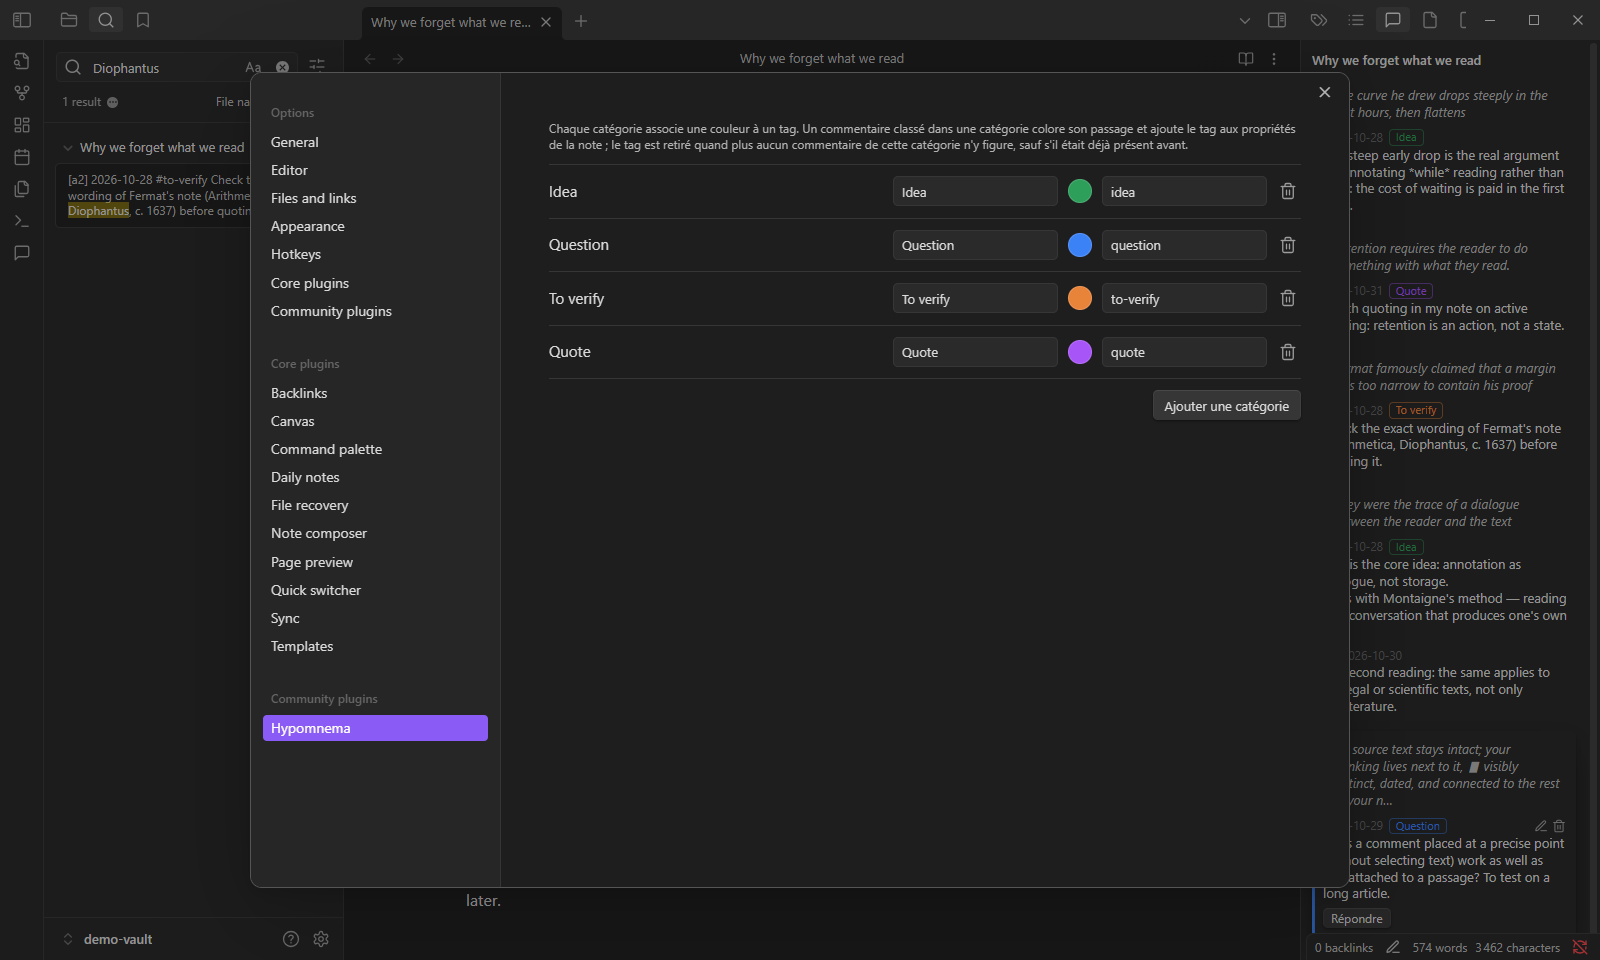
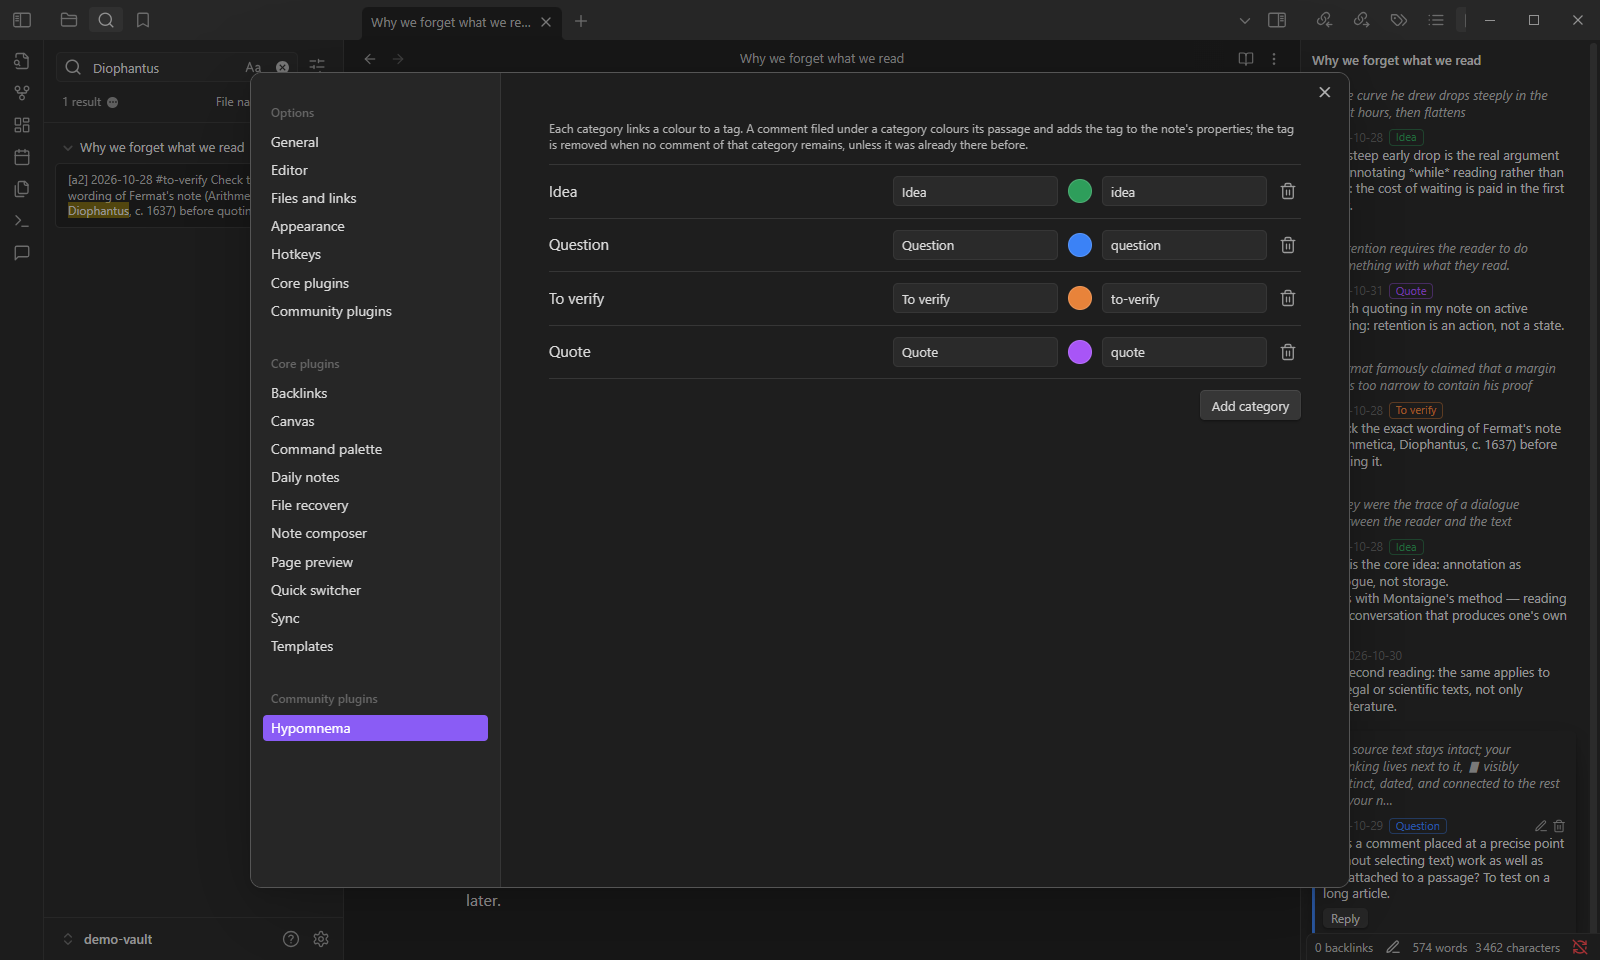
Version 0.4.0 : interface bilingue, conformité aux règles Obsidian, onglet unique
- Doublons de l'onglet « Commentaires » fermés après un rechargement du plugin
- Captures anglaises refaites avec l'interface en anglais

diff --git a/src/main.ts b/src/main.ts
@@ -63,6 +63,7 @@ export default class Hypomnema extends Plugin {
     // Ouvrir une autre note dans le même onglet ne change pas la feuille active. Si le panneau a le focus
     // (rédaction en cours), seul « layout-change » est émis : chaque panneau revérifie alors la note qu'il suit.
     const follow = () => {
+      this.dedupePanels();
       const view = this.app.workspace.getActiveViewOfType(MarkdownView);
       this.panels().forEach((p) => p.follow(view));
     };
@@ -102,10 +103,21 @@ export default class Hypomnema extends Plugin {
     return this.app.workspace.getLeavesOfType(PANEL_VIEW).map((l) => l.view).filter((v): v is CommentsPanel => v instanceof CommentsPanel);
   }
 
+  /**
+   * Chaque rechargement du plugin (mise à jour, désactivation puis réactivation) peut laisser un onglet de plus,
+   * qui n'apparaît parfois qu'après le chargement : on n'en garde qu'un, de préférence celui déjà affiché.
+   */
+  private dedupePanels(): WorkspaceLeaf | undefined {
+    const leaves = this.app.workspace.getLeavesOfType(PANEL_VIEW);
+    const keep = leaves.find((l) => l.view instanceof CommentsPanel) ?? leaves[0];
+    for (const leaf of leaves) if (leaf !== keep) leaf.detach();
+    return keep;
+  }
+
   /** Crée l'onglet du panneau dans la barre de droite, à côté des rétroliens, liens sortants et plan. */
   private async ensurePanel(): Promise<WorkspaceLeaf | null> {
     const ws = this.app.workspace;
-    const existing = ws.getLeavesOfType(PANEL_VIEW)[0];
+    const existing = this.dedupePanels();
     if (existing) return existing;
     const sibling = ["backlink", "outgoing-link", "outline"]
       .map((type) => ws.getLeavesOfType(type)[0])

diff --git a/CHANGELOG.md b/CHANGELOG.md
@@ -6,6 +6,8 @@ Les commentaires sont stockés en texte brut dans les notes des utilisateurs. To
 
 ## [Non publié]
 
+## [0.4.0] — 2026-10-31
+
 ### Ajouté
 
 - Interface en anglais. Le plugin suit la langue d'Obsidian : français quand Obsidian est en français, anglais sinon. Cela couvre les commandes, le menu contextuel, le panneau, la rédaction, les messages et les réglages. La catégorie d'exemple créée à la première installation suit la même règle (« Idée » / « Idea »).
@@ -15,6 +17,11 @@ Les commentaires sont stockés en texte brut dans les notes des utilisateurs. To
 
 - Les couleurs des catégories passent par des classes CSS, générées dans une feuille de style propre au plugin, et non plus par des styles en ligne, conformément aux règles des plugins Obsidian.
 - La mise en évidence d'un passage et le rafraîchissement des éditeurs passent par l'API publique de CodeMirror, et non plus par l'accès interne `editor.cm`.
+- Captures d'écran anglaises refaites avec l'interface en anglais.
+
+### Corrigé
+
+- Chaque rechargement du plugin (mise à jour, désactivation puis réactivation) ajoutait un onglet « Commentaires » de plus dans la barre latérale. Les doublons sont désormais fermés et un seul onglet est conservé.
 
 ## [0.3.1] — 2026-10-31
 
@@ -119,6 +126,7 @@ Les commentaires sont stockés en texte brut dans les notes des utilisateurs. To
 - Passage commenté : `%%[aN%%texte%%aN]%%`.
 - Bloc en fin de note : `%% annotations` … `%%`, une entrée par ligne (`[aN] AAAA-MM-JJ texte`), les réponses étant notées `[aN.k]` et indentées.
 
-[Non publié]: https://github.com/Floernt/hypomnema/compare/0.3.1...HEAD
+[Non publié]: https://github.com/Floernt/hypomnema/compare/0.4.0...HEAD
+[0.4.0]: https://github.com/Floernt/hypomnema/compare/0.3.1...0.4.0
 [0.3.1]: https://github.com/Floernt/hypomnema/compare/0.3.0...0.3.1
 [0.3.0]: https://github.com/Floernt/hypomnema/releases/tag/0.3.0
